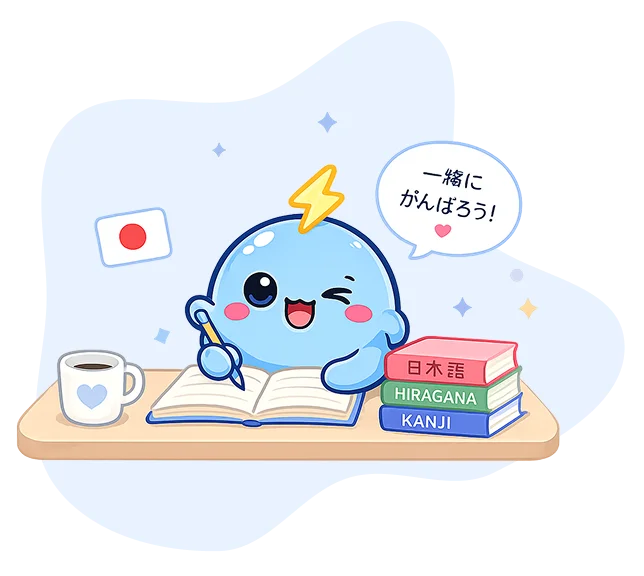
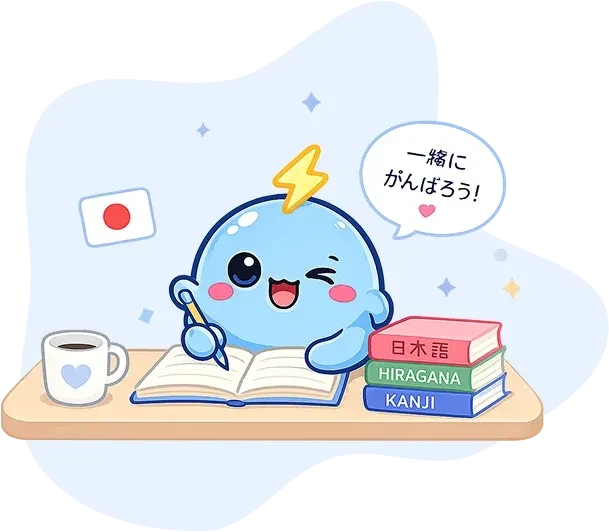
Centrar la sección "Así nació Denchi no Nihongo"
- Recortar el espacio transparente sobrante del lado derecho de la
  ilustración (story-illustration.webp).
- Agregar lg:justify-between para que la fila distribuya el espacio
  sobrante como gap en vez de dejarlo como margen muerto a la derecha.

diff --git a/src/components/OriginStory.tsx b/src/components/OriginStory.tsx
@@ -39,7 +39,7 @@ export default function OriginStory() {
   return (
     <section className="bg-[#fbfcfd] px-6 py-12 sm:px-12 sm:py-16">
       <div className="mx-auto flex max-w-7xl flex-col gap-16 sm:gap-20">
-        <div className="flex flex-col items-center gap-10 lg:flex-row lg:items-center lg:gap-12">
+        <div className="flex flex-col items-center gap-10 lg:flex-row lg:items-center lg:justify-between lg:gap-12">
           <motion.div
             variants={fadeInUp}
             initial="hidden"
